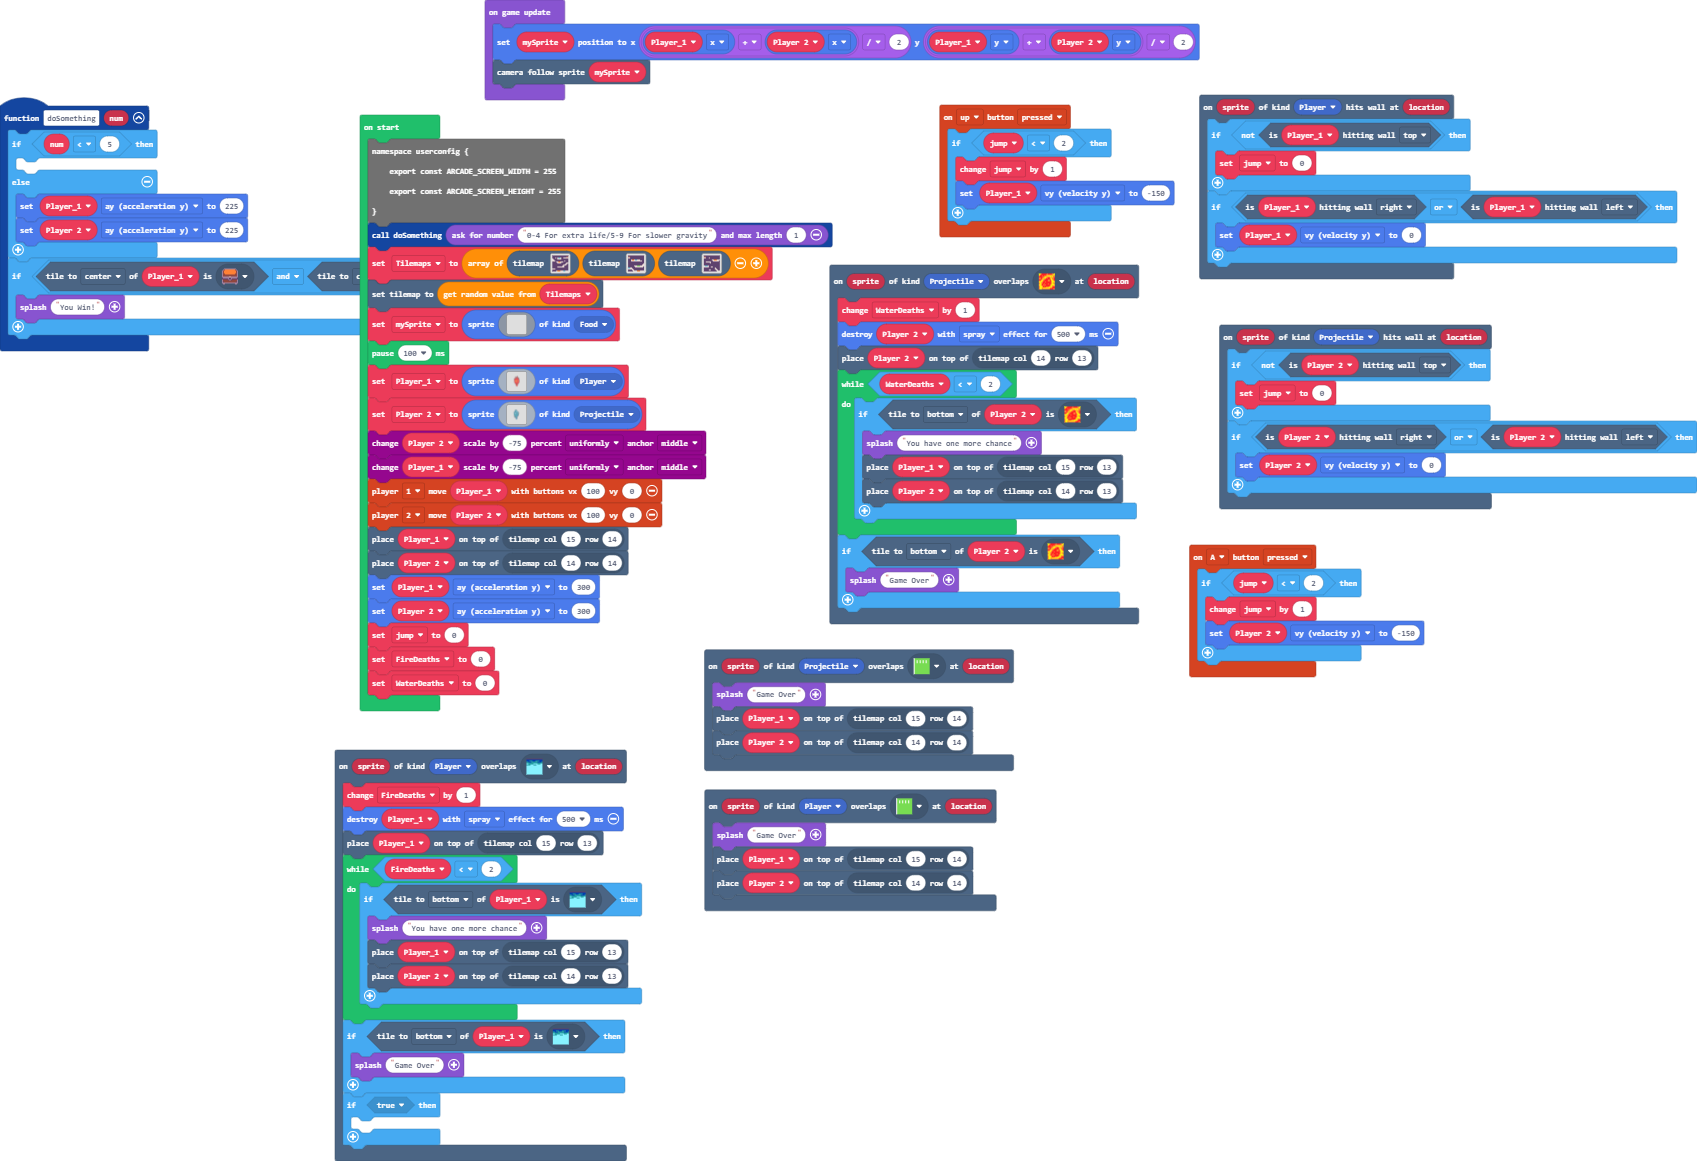
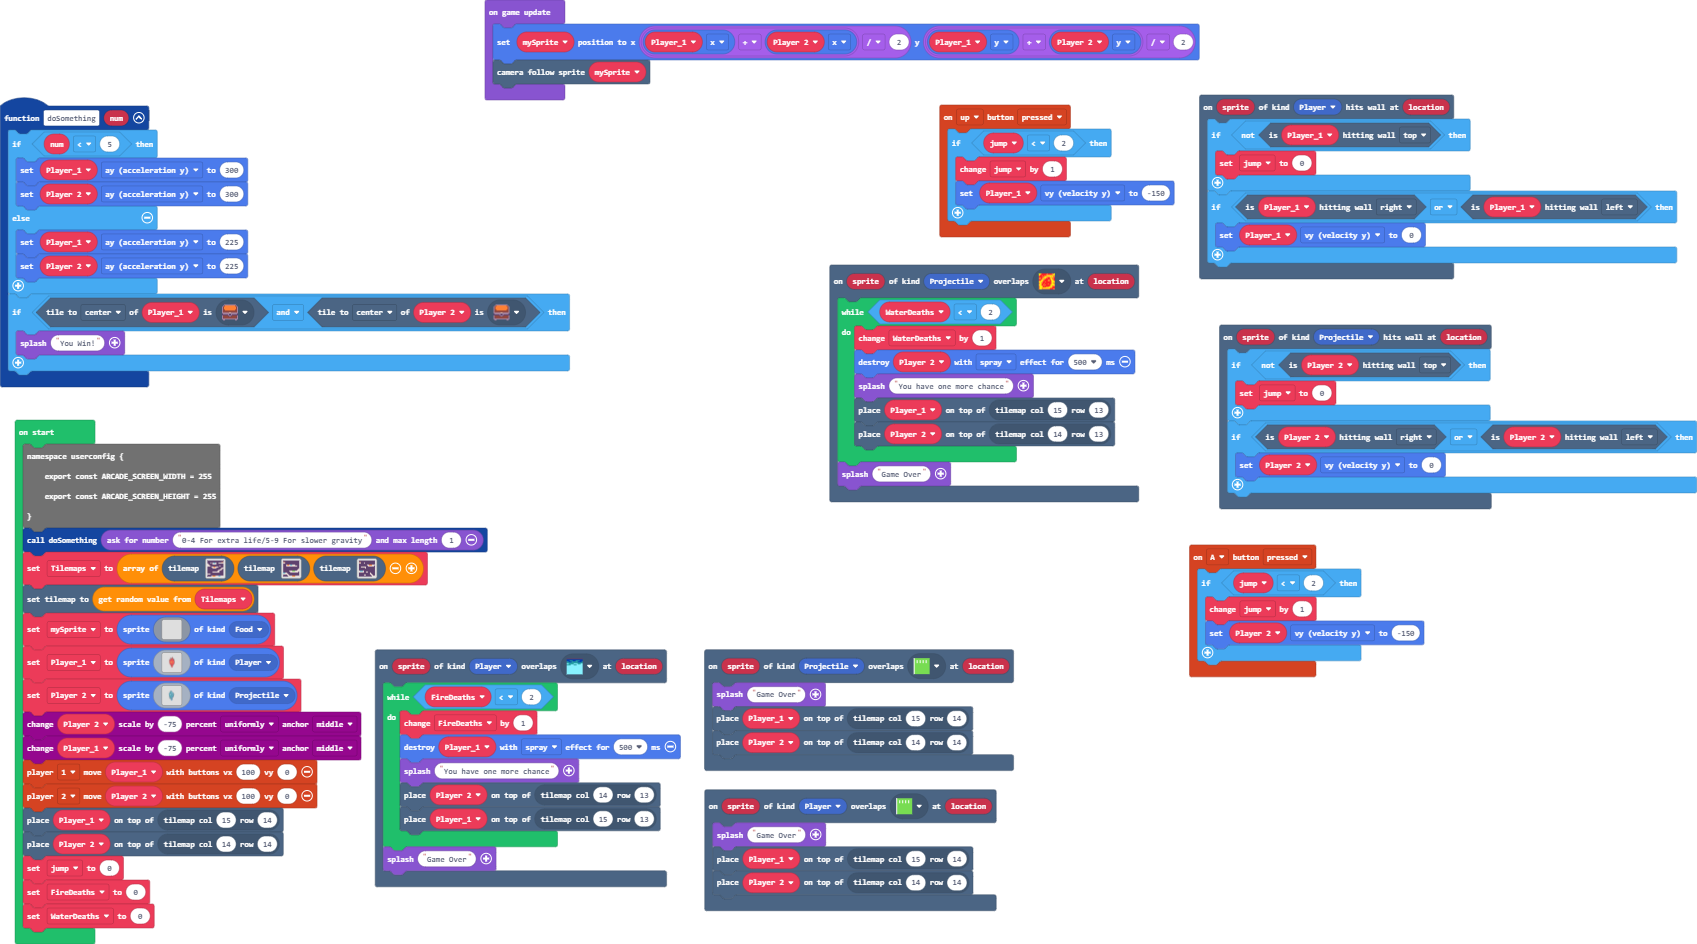
Update main.blocks, main.ts

diff --git a/main.ts b/main.ts
@@ -18,19 +18,14 @@ scene.onOverlapTile(SpriteKind.Player, sprites.builtin.field0, function (sprite,
     tiles.placeOnTile(Player_2, tiles.getTileLocation(14, 14))
 })
 scene.onOverlapTile(SpriteKind.Projectile, sprites.dungeon.hazardLava0, function (sprite, location) {
-    WaterDeaths += 1
-    sprites.destroy(Player_2, effects.spray, 500)
-    tiles.placeOnTile(Player_2, tiles.getTileLocation(14, 13))
     while (WaterDeaths < 2) {
-        if (Player_2.tileKindAt(TileDirection.Bottom, sprites.dungeon.hazardLava0)) {
-            game.splash("You have one more chance")
-            tiles.placeOnTile(Player_1, tiles.getTileLocation(15, 13))
-            tiles.placeOnTile(Player_2, tiles.getTileLocation(14, 13))
-        }
+        WaterDeaths += 1
+        sprites.destroy(Player_2, effects.spray, 500)
+        game.splash("You have one more chance")
+        tiles.placeOnTile(Player_1, tiles.getTileLocation(15, 13))
+        tiles.placeOnTile(Player_2, tiles.getTileLocation(14, 13))
     }
-    if (Player_2.tileKindAt(TileDirection.Bottom, sprites.dungeon.hazardLava0)) {
-        game.splash("Game Over")
-    }
+    game.splash("Game Over")
 })
 controller.A.onEvent(ControllerButtonEvent.Pressed, function () {
     if (jump < 2) {
@@ -45,7 +40,8 @@ scene.onOverlapTile(SpriteKind.Projectile, sprites.builtin.field0, function (spr
 })
 function doSomething (num: number) {
     if (num < 5) {
-    	
+        Player_1.ay = 300
+        Player_2.ay = 300
     } else {
         Player_1.ay = 225
         Player_2.ay = 225
@@ -55,22 +51,14 @@ function doSomething (num: number) {
     }
 }
 scene.onOverlapTile(SpriteKind.Player, sprites.dungeon.hazardWater, function (sprite, location) {
-    FireDeaths += 1
-    sprites.destroy(Player_1, effects.spray, 500)
-    tiles.placeOnTile(Player_1, tiles.getTileLocation(15, 13))
     while (FireDeaths < 2) {
-        if (Player_1.tileKindAt(TileDirection.Bottom, sprites.dungeon.hazardWater)) {
-            game.splash("You have one more chance")
-            tiles.placeOnTile(Player_1, tiles.getTileLocation(15, 13))
-            tiles.placeOnTile(Player_2, tiles.getTileLocation(14, 13))
-        }
+        FireDeaths += 1
+        sprites.destroy(Player_1, effects.spray, 500)
+        game.splash("You have one more chance")
+        tiles.placeOnTile(Player_2, tiles.getTileLocation(14, 13))
+        tiles.placeOnTile(Player_1, tiles.getTileLocation(15, 13))
     }
-    if (Player_1.tileKindAt(TileDirection.Bottom, sprites.dungeon.hazardWater)) {
-        game.splash("Game Over")
-    }
-    if (true) {
-    	
-    }
+    game.splash("Game Over")
 })
 scene.onHitWall(SpriteKind.Projectile, function (sprite, location) {
     if (!(Player_2.isHittingTile(CollisionDirection.Top))) {
@@ -110,7 +98,6 @@ let mySprite = sprites.create(img`
     . . . . . . . . . . . . . . . . 
     . . . . . . . . . . . . . . . . 
     `, SpriteKind.Food)
-pause(100)
 Player_1 = sprites.create(assets.image`fire boy water girl`, SpriteKind.Player)
 Player_2 = sprites.create(assets.image`fire boy water girl0`, SpriteKind.Projectile)
 scaling.scaleByPercent(Player_2, -75, ScaleDirection.Uniformly, ScaleAnchor.Middle)
@@ -119,8 +106,6 @@ controller.player1.moveSprite(Player_1, 100, 0)
 controller.player2.moveSprite(Player_2, 100, 0)
 tiles.placeOnTile(Player_1, tiles.getTileLocation(15, 14))
 tiles.placeOnTile(Player_2, tiles.getTileLocation(14, 14))
-Player_1.ay = 300
-Player_2.ay = 300
 jump = 0
 FireDeaths = 0
 WaterDeaths = 0
